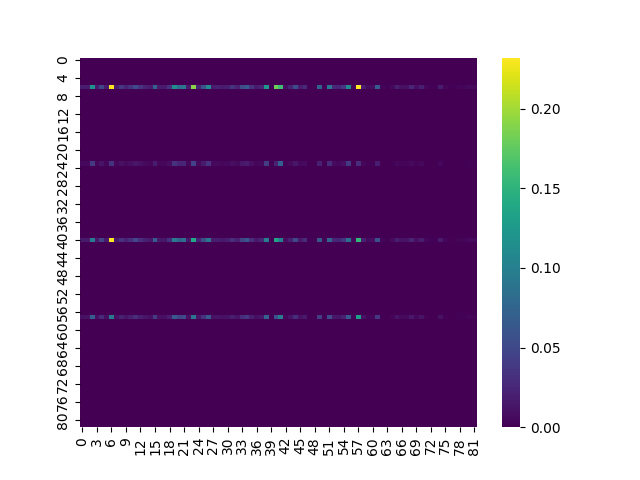
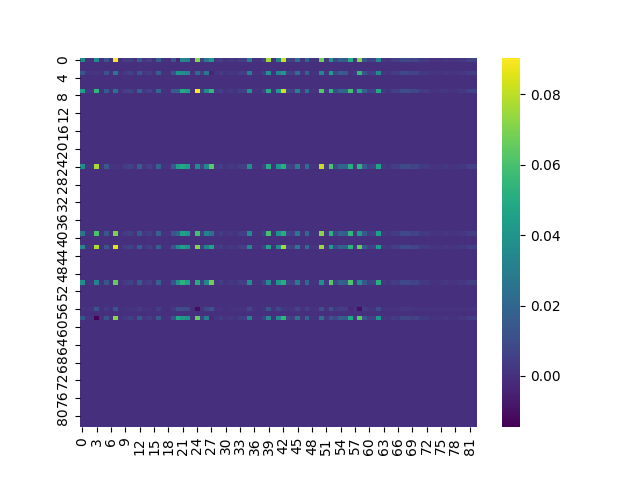
fix: reward function

diff --git a/controller/Q_learning.py b/controller/Q_learning.py
@@ -7,15 +7,15 @@ def init_qtable(n_actions):
 
 def init_list_action(n_actions, net):
     list_action = []
-    for i in range(0, n_actions):
+    list_action.append([net.baseStation.location[0], net.baseStation.location[1]])
+    for i in range(0, n_actions-1):
         list_action.append([net.listNodes[i].location[0], net.listNodes[i].location[1]])
     return np.asarray(list_action)
     
 
 class Q_learning:
-    def __init__(self, mc, epsilon=0.2, alpha=0.1, gamma=0.5, theta = 0.1):
+    def __init__(self, mc, epsilon=0.2, alpha=0.5, gamma=0.6, theta = 0.1):
         self.mc = mc
-        self.state = 40
         self.reward_max = 0.0
         self.epsilon = epsilon
         self.alpha = alpha
@@ -23,14 +23,15 @@ class Q_learning:
         self.theta = theta
     
     def reset(self):
-        self.n_actions = len(self.mc.net.listNodes)
+        self.n_actions = len(self.mc.net.listNodes) + 1
         self.action_list = init_list_action(self.n_actions, self.mc.net)
         #self.q_table = init_qtable(self.n_actions)
         self.charging_time = [0.0 for _ in self.action_list]
         self.reward = [0.0 for _ in self.action_list]
+        self.state = 0
 
-    def update(self):
-        self.caculate_reward()
+    def update(self, charging_time):
+        self.caculate_reward(charging_time)
         
         # update q row i in q_table
         self.q_table[self.state] = (1 - self.alpha) * self.q_table[self.state] + self.alpha * (self.reward + self.gamma * self.q_max())
@@ -46,9 +47,11 @@ class Q_learning:
         #     return action, rand_q_value, rand_state
         
         charging_time = self.charging_time[max_state]
+        self.choose_next_state()
 
         action = [self.action_list[max_state][0], self.action_list[max_state][1], charging_time, True]
-        return action, q_max_value
+        destination = [self.action_list[max_state][0], self.action_list[max_state][1]]
+        return destination, q_max_value, self.state
 
     def choose_next_state(self):
         #print(self.q_table[self.state])
@@ -59,51 +62,89 @@ class Q_learning:
         q_next_state = [max(row) for index, row in enumerate(self.q_table)]
         return np.asarray(q_next_state)
     
-    def caculate_reward(self):
+    def caculate_reward(self, charging_time):
         energy_factor = np.array([0.0 for _ in self.action_list], dtype=float)
         priority_factor = np.array([0.0 for _ in self.action_list], dtype=float)
         target_monitoring_factor = np.array([0.0 for _ in self.action_list], dtype=float)
         for id, _ in enumerate(self.q_table):
-            reward = self.reward_function(id)
+            reward = self.reward_function(id, charging_time[id])
             energy_factor[id] = reward[0]
             priority_factor[id] = reward[1]
             target_monitoring_factor[id] = reward[2]
-            self.charging_time[id] = reward[3]  
 
         energy_factor = energy_factor / np.sum(energy_factor)
         priority_factor = priority_factor / np.sum(priority_factor)
         target_monitoring_factor = target_monitoring_factor / np.sum(target_monitoring_factor)
 
-        self.reward = energy_factor + energy_factor + target_monitoring_factor
+        self.reward = energy_factor + priority_factor + target_monitoring_factor
 
-    def reward_function(self, state):
-        connected_nodes = np.array([node for node in self.mc.net.listNodes 
-                                    if euclidean(node.location, self.action_list[state]) <= self.mc.chargingRange])
-        p = np.array([self.mc.alpha / (euclidean(self.action_list[state], node.location)+ self.mc.beta)**2
-                         for node in connected_nodes])
-        e = np.array([node.energyCS for node in connected_nodes])
-        E = np.array([node.energy for node in connected_nodes])
-        w = np.array([node.num_path + len(node.listTargets) 
-                      for node in connected_nodes])
+    def reward_function(self, state,charging_time):
+        # connected_nodes = np.array([node for node in self.mc.net.listNodes 
+        #                             if euclidean(node.location, self.action_list[state]) <= self.mc.chargingRange])
+        p = np.array([self.mc.alpha / (euclidean(self.action_list[state], self.mc.net.listNodes[node_id].location)+ self.mc.beta)**2
+                         for node_id in self.mc.net.list_request])
+        e = np.array([self.mc.net.listNodes[node_id].energyCS for node_id in self.mc.net.list_request])
+        E = np.array([self.mc.net.listNodes[node_id].energy for node_id in self.mc.net.list_request])
+        w, nb_target_alive = self.prio_weight(state, charging_time)
         targets = []
-        for target in self.mc.net.listTargets:
-            for node in connected_nodes:
-                if euclidean(target.location, node.location) <= node.sen_range:
-                    targets.append(target)
-                    break
 
-        t = len(targets) / len(self.mc.net.listTargets)
+
+        t = nb_target_alive/len(self.mc.net.listTargets)
         # energy factor
         energy_factor = np.sum(e*p/E)
         # priority factor
         priority_factor = np.sum(w*p)
         # target monitoring factor
         target_monitoring_factor = t
-        
-        charging_time = self.get_charging_time(state=state)
+
         #print (self.action_list[state], energy_factor, priority_factor, target_monitoring_factor)
         
-        return energy_factor, priority_factor, target_monitoring_factor, charging_time 
+        return energy_factor, priority_factor, target_monitoring_factor
+
+    def get_path(self, node_id):
+        path = [node_id]
+        if euclidean(self.mc.net.listNodes[node_id].location, self.mc.net.baseStation.location) <= self.mc.net.listNodes[node_id].com_range:
+            path.append(-1)
+        else:
+            receiver = self.mc.net.listNodes[node_id].find_receiver()
+            if receiver != None:
+                path.extend(self.get_path(receiver.id))
+        return path
+
+    def get_all_path(self):
+        list_path = []
+        for target in self.mc.net.listTargets:
+            for node in self.mc.net.listNodes:
+                if target in  node.listTargets:
+                    list_path.append(self.get_path(node.id))
+        return list_path
+    
+    def prio_weight(self,state,charging_time):
+        p = np.array([self.mc.alpha / (euclidean(self.action_list[state], self.mc.net.listNodes[node_id].location) + self.mc.beta) ** 2
+                      for node_id in self.mc.net.list_request])
+        all_path=self.get_all_path()
+        time_move = euclidean(self.action_list[self.state],self.action_list[state])/self.mc.velocity
+        list_dead =[]
+        w = [0 for _ in self.mc.net.list_request]
+        for request_id, node_id in enumerate(self.mc.net.list_request):
+            temp = (self.mc.net.listNodes[node_id].energy - time_move * self.mc.net.listNodes[node_id].energyCS
+                    + charging_time *(p[request_id]-self.mc.net.listNodes[node_id].energyCS))
+            if temp < self.mc.net.listNodes[node_id].threshold :
+                list_dead.append(node_id)
+        for request_id , node_id in enumerate(self.mc.net.list_request):
+            nb_path=0
+            for path in all_path:
+                if node_id in path :
+                    nb_path +=1
+            w[request_id]=nb_path
+
+        total_weight = sum(w)
+        w = np.asarray([i/total_weight for i in w])
+        nb_target_alive =0
+        for path in all_path:
+            if -1 in path and not (set(list_dead) & set(path)):
+                nb_target_alive +=1
+        return w, nb_target_alive
 
 
     def get_charging_time(self, state):

diff --git a/rl_env/WRSN.py b/rl_env/WRSN.py
@@ -42,6 +42,7 @@ class WRSN(gym.Env):
         return
     
     def choose_request(self):
+
         if len(self.net.wait_request) > 0:
             self.net.wait_request.pop()
             action = []
@@ -50,41 +51,93 @@ class WRSN(gym.Env):
                 tmp1, tmp2 = agent.q_learning.update()
                 action.append(tmp1)
                 Q_value.append(tmp2)
+            
+            if np.random.uniform(0,1) < 0.3:
+                max_id = np.random.randint(0, len(self.agents))
+            else:
+                max_value = np.max(Q_value)
+                max_id = np.random.choice([id for id, value in enumerate(Q_value) if value == max_value])
 
-            max_value = np.max(Q_value)
-            max_id = np.random.choice([id for id, value in enumerate(Q_value) if value == max_value])
-
+            print(self.env.now)
+            print (Q_value)
             self.agents[max_id].q_learning.choose_next_state()
+            print (self.agents[0].q_learning.state, self.agents[1].q_learning.state, self.agents[2].q_learning.state)
             self.agents[max_id].charge_queue.append(action[max_id])
         
     
     def random_agent_action(self):
-        if len(self.net.wait_request) > 0:
+        if len(self.net.list_request) > 0:
             id = np.random.randint(0, len(self.agents))
             
             node_id = np.random.randint(0, 82)
             action = [self.net.listNodes[node_id].location[0], self.net.listNodes[node_id].location[1], 20, True]
-            self.net.wait_request.pop()
             self.agents[id].charge_queue.append(action)
 
-    def step(self):
+    def step(self):            
+        n_request = len(self.net.list_request) 
+
         for id, agent in enumerate(self.agents):
-            if len(agent.charge_queue) > 0 and agent.cur_phy_action[2] == 0:
-                action = agent.charge_queue[0]
-                agent.charge_queue.pop(0)
+            if n_request > 0 and agent.cur_phy_action[2] == 0:
+                charging_time = self.charging_time(id)
+                #print(charging_time)
+                destination, q_max_value, state = agent.q_learning.update(charging_time)
+                action = [destination[0], destination[1], charging_time[state], True]
                 print (id, action)
-                self.agents_process[id] = self.env.process(agent.operate_step(action))
-            else:
-                agent.location
-                self.agents_process[id] = self.env.process(agent.operate_step([agent.location[0], agent.location[1], 0, False]))
+                self.env.process(agent.operate_step(action))
+                n_request -= 1
 
-        general_process = self.net_process
-        for id, agent in enumerate(self.agents):
-            if agent.status != 0:
-                general_process = general_process | self.agents_process[id]
+        self.env.run(until=self.env.now + 1)    
+        
 
-        self.env.run(until=general_process)
-        
-        
-    def run(self):
-        self.env.run(until=self.net_process)
+    def charging_time(self, mc_id):
+        time = []
+        for i in range(self.agents[mc_id].q_learning.n_actions):
+            time.append(self.get_charging_time(self.agents[mc_id], i))
+        return time
+    
+    def get_charging_time(self, mc, state):
+        time_move = euclidean(mc.cur_phy_action[0:2], mc.q_learning.action_list[state]) / mc.velocity
+
+        energy_critical = self.net.listNodes[0].eth + 0.1 * self.net.listNodes[0].capacity
+
+        positive_critical_nodes = []  # list of node which critical and positive charge
+        negative_normal_nodes = []  # list of node which normal and negative charge
+
+        for node in self.net.listNodes:
+            d = euclidean(node.location, mc.q_learning.action_list[state])
+            p = (mc.alpha / (d + mc.beta) ** 2)
+            p1 = 0
+            for other_mc in self.agents:
+                d = euclidean(other_mc.cur_phy_action[0:2], node.location)
+                if other_mc.chargingRange > d and other_mc.id != mc.id:
+                    p1 += (other_mc.alpha / (d + other_mc.beta) ** 2) * other_mc.cur_phy_action[2]
+           
+            if node.energy - time_move * node.energyCS + p1 < energy_critical and p - node.energyCS > 0:
+                positive_critical_nodes.append((node, p, p1))
+            if node.energy - time_move * node.energyCS + p1 > energy_critical and p - node.energyCS < 0:
+                negative_normal_nodes.append((node, p, p1))
+        ta = []
+
+        for node, p, p1 in positive_critical_nodes:
+            ta.append((energy_critical - node.energy + time_move * node.energyCS - p1) / (p - node.energyCS))
+            
+        for node, p, p1 in negative_normal_nodes:
+            ta.append((energy_critical - node.energy + time_move * node.energyCS - p1) / (p - node.energyCS))
+          
+        dead_list = []
+        #print(ta)
+        for T in ta:
+            dead_node = 0
+            for node, p, p1 in positive_critical_nodes:
+                term = node.energy - time_move * node.energyCS + p1 + (p - node.energyCS) * T
+                if term < energy_critical:
+                    dead_node += 1
+            for node, p, p1 in negative_normal_nodes:
+                term = node.energy - time_move * node.energyCS + p1 + (p - node.energyCS) * T
+                if term < energy_critical:
+                    dead_node += 1
+            dead_list.append(dead_node)
+        if dead_list:
+            arg_min = np.argmin(dead_list)
+            return ta[arg_min]
+        return 0

diff --git a/runner/checkRL.py b/runner/checkRL.py
@@ -7,12 +7,11 @@ import pandas as pd
 sys.path.append(os.path.dirname(os.path.dirname(__file__)))
 from rl_env.WRSN import WRSN
 
-
 def log(net):
     # If you want to print something, just put it here. Do not fix the core code.
     while True:
         if net.env.now % 100 == 0:
-            print(net.env.now)
+            print (net.env.now)
         yield net.env.timeout(1.0)
 
 network = WRSN(scenario_path="physical_env/network/network_scenarios/hanoi1000n50.yaml"
@@ -20,11 +19,12 @@ network = WRSN(scenario_path="physical_env/network/network_scenarios/hanoi1000n5
                ,num_agent=3)
 
 
-n_episode = 5
+n_episode = 1
+
 
 q = []
 for i in range(3):
-    q.append(np.zeros((82, 82), dtype=float))
+    q.append(np.zeros((83, 83), dtype=float))
     
 for eps in range(n_episode):
     network.reset()
@@ -33,10 +33,10 @@ for eps in range(n_episode):
         agent.q_learning.q_table = q[id]
     while True:
         if network.net.alive == 1:
-            #network.random_agent_action()
-            network.choose_request()
             network.step()
         else:
+            for i, node in enumerate(network.net.listNodes):
+                print (i, node.location, node.energy, node.energyCS, node.energyRR, node.num_path)
             for id, agent, in enumerate(network.agents):
                 q[id] = agent.q_learning.q_table 
             break
@@ -46,6 +46,5 @@ for eps in range(n_episode):
 import seaborn as sns
 import matplotlib.pyplot as plt
 
-for i in range(3):
-    sns.heatmap(q[i], cmap='viridis') 
-    plt.savefig(f"heatmapq{i}.png")
+sns.heatmap(q[0], q[1], q[2], cmap='viridis') 
+plt.savefig("heatmapq1.png")

diff --git a/physical_env/network/Network.py b/physical_env/network/Network.py
@@ -89,21 +89,12 @@ class Network:
             
             for node in self.listNodes:
                 if node.is_request == True:
-                    check = False
-                    for request in self.list_request:
-                        if request == node.id:
-                            check = True
-                            break
-                    if check == False:
+                    if node.id not in self.list_request:
                         self.list_request.append(node.id)
-                        self.wait_request.append(node.id)
-
-            removes = []
-            for node in self.list_request:
-                if self.listNodes[node].is_request == False:
-                    removes.append(node)
-            for node in removes:
-                self.list_request.remove(node)
+                else:
+                    if node.id in self.list_request:
+                        self.list_request.remove(node.id)
+                
             
             # if len(self.list_request) > 0 and len(self.wait_request) == 0:
             #     self.wait_request = self.list_request.copy()

diff --git a/runner/check.py b/runner/check.py
@@ -19,7 +19,7 @@ class WRSN:
 
 random.seed(0)
 
-netIO = NetworkIO("physical_env/network/network_scenarios/hanoi1000n50.yaml")
+netIO = NetworkIO("physical_env/network/network_scenarios/hanoi1000n200.yaml")
 env, net = netIO.makeNetwork()
 
 node_x = [node.location[0] for node in net.listNodes]

diff --git a/runner/test.py b/runner/test.py
@@ -1,0 +1,5 @@
+a = [1,2,7,4,8]
+if all (i for i in a) > 1:
+    print(1)
+else :
+    print (0)
